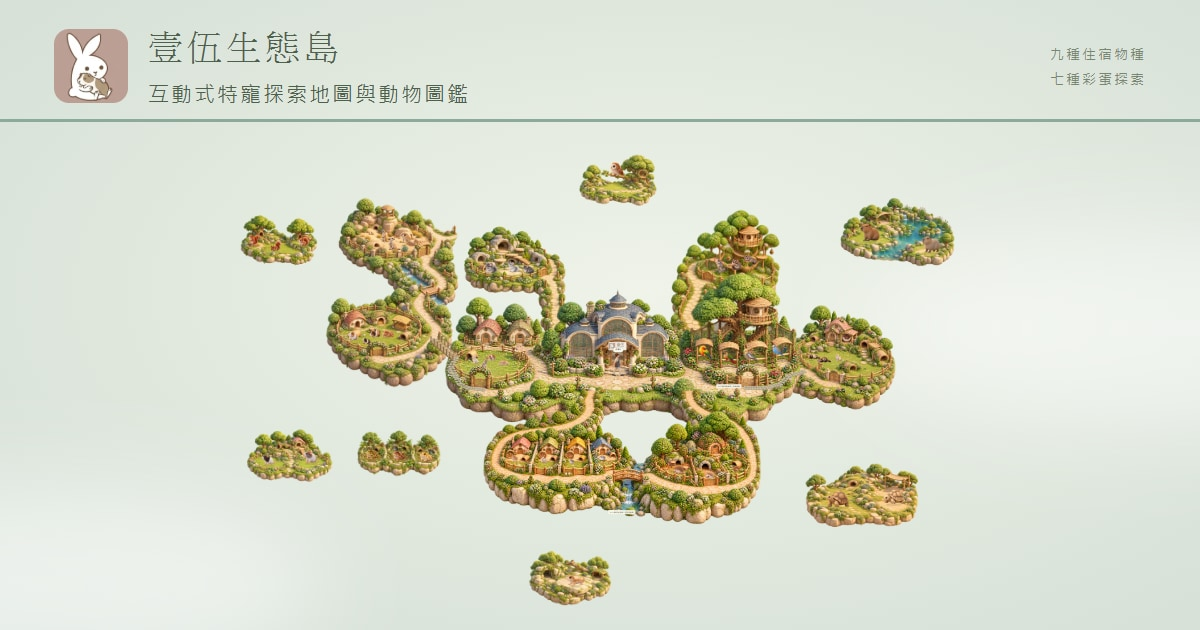
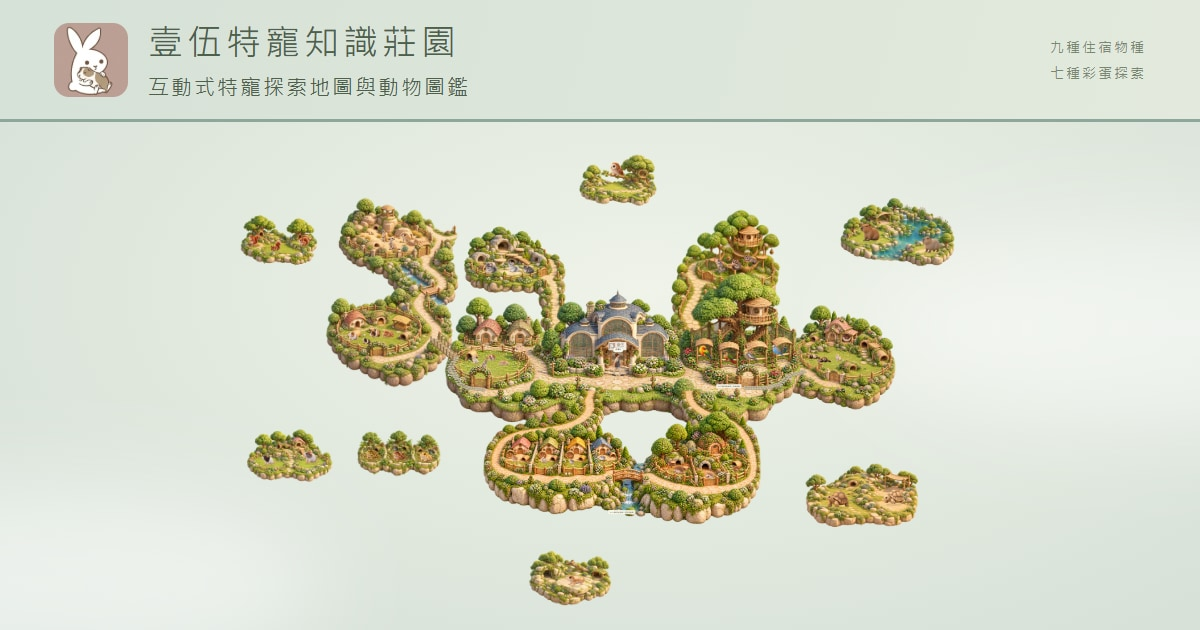
Rename public brand to Yiwu Pet Knowledge Manor

Changed region(s): [[0.0308, 0.0302, 0.4008, 0.181], [0.8633, 0.0603, 0.9558, 0.1508]]

diff --git a/src/app/motion-review/page.tsx b/src/app/motion-review/page.tsx
@@ -11,5 +11,5 @@ export default function Review() {
         return; let id = 0, last = 0; function tick(t: number) { if (last)
         setDistance(v => v + Math.min(t - last, 60) * .052); last = t; id = requestAnimationFrame(tick); } id = requestAnimationFrame(tick); return () => cancelAnimationFrame(id); }, [playing, observing]);
     const frame = gaitFrame(distance), clip = caretakerClips[direction];
-    return <div className="motion-review"><Link href="/">← 回生態島</Link><h1>保母動作審閱</h1><p>正面、側面、背面各 8 格；左側使用鏡像，胸前商標另層保留原圖方向。</p><p className="review-warning">逐格播放已實作。素材仍為暫時版本：部分影格的支撐腳、對側擺臂及循環銜接不夠一致，尚未達到自然步態的正式驗收標準。</p><div className="review-controls">{(['front', 'right', 'back', 'left'] as Facing[]).map((d, i) => <button key={d} aria-pressed={direction === d} onClick={() => { setDirection(d); setObserving(false); }}>{['正面', '右側', '背面', '左側'][i]}</button>)}<button onClick={() => setPlaying(!playing)}>{playing ? '暫停換格' : '播放換格'}</button><button onClick={() => { setObserving(!observing); }}>{observing ? '返回行走' : '到站拿平板'}</button></div><div className="review-stage"><div className="contact-baseline"/><Caretaker position={{ x: 180, y: 310 }} direction={direction} distance={distance} walking={!observing} observing={observing}/></div><label>目前影格 {frame + 1} / 8 <input aria-label="逐格檢查" type="range" min="0" max="7" step="1" value={frame} onChange={e => { setPlaying(false); setObserving(false); setDistance(Number(e.target.value) * STRIDE / 8); }}/></label><div className="frame-grid">{Array.from({ length: 8 }, (_, n) => <figure key={n}><img src={assetUrl(`/assets/animation-v2/${clip.file.replace('walk-', '')}-${n}.webp`)} alt={`${direction} 第 ${n + 1} 格`}/><figcaption>{n + 1} / 8 · 腳底錨點 y=252</figcaption></figure>)}</div></div>;
+    return <div className="motion-review"><Link href="/">← 回莊園</Link><h1>保母動作審閱</h1><p>正面、側面、背面各 8 格；左側使用鏡像，胸前商標另層保留原圖方向。</p><p className="review-warning">逐格播放已實作。素材仍為暫時版本：部分影格的支撐腳、對側擺臂及循環銜接不夠一致，尚未達到自然步態的正式驗收標準。</p><div className="review-controls">{(['front', 'right', 'back', 'left'] as Facing[]).map((d, i) => <button key={d} aria-pressed={direction === d} onClick={() => { setDirection(d); setObserving(false); }}>{['正面', '右側', '背面', '左側'][i]}</button>)}<button onClick={() => setPlaying(!playing)}>{playing ? '暫停換格' : '播放換格'}</button><button onClick={() => { setObserving(!observing); }}>{observing ? '返回行走' : '到站拿平板'}</button></div><div className="review-stage"><div className="contact-baseline"/><Caretaker position={{ x: 180, y: 310 }} direction={direction} distance={distance} walking={!observing} observing={observing}/></div><label>目前影格 {frame + 1} / 8 <input aria-label="逐格檢查" type="range" min="0" max="7" step="1" value={frame} onChange={e => { setPlaying(false); setObserving(false); setDistance(Number(e.target.value) * STRIDE / 8); }}/></label><div className="frame-grid">{Array.from({ length: 8 }, (_, n) => <figure key={n}><img src={assetUrl(`/assets/animation-v2/${clip.file.replace('walk-', '')}-${n}.webp`)} alt={`${direction} 第 ${n + 1} 格`}/><figcaption>{n + 1} / 8 · 腳底錨點 y=252</figcaption></figure>)}</div></div>;
 }

diff --git a/src/components/Experience.tsx b/src/components/Experience.tsx
@@ -199,9 +199,9 @@ function ExperienceScene({artPreview,artExpansion,artFinal,eggPreview}:{artPrevi
         if (selectedExploration)
             closeExploration();
     } }} className={lifePaused ? 'life-paused' : ''} data-exploring={selectedExploration ? 'true' : 'false'} data-view={selected ? 'focus' : 'overview'} data-island={selected ?? 'overview'}>
-  <header className="topbar"><a className="brand" href="https://15exoticanimalhotel.com.tw/" target="_blank" rel="noreferrer"><img src={assetUrl("/assets/logo-original.jpg")} alt="壹伍原始商標"/><span>壹伍<span className="brand-sub">非犬貓旅宿</span></span></a><span className="mobile-site-title">生態島</span><span className="top-caption">每一種特別，都值得被溫柔對待</span><a className="price-link" href="https://15exoticanimalhotel.com.tw/price.html" target="_blank" rel="noreferrer">了解房型／價格 <span>↗</span></a></header>
-  <div className="intro"><div className="eyebrow"><span /> YIWU ECO ISLAND · CHAPTER 07</div><h1>壹伍生態島</h1><p>把世界放小，把照顧放大。<br />跟著保母，走進每一種特別的日常。</p><span className="review-tag">動態原型 · 步態與新製美術待審</span></div>
-  <div className="map" ref={viewport} tabIndex={0} role="region" aria-label="可拖曳縮放的生態島地圖；方向鍵移動，加減鍵縮放，Home 返回全景" onClickCapture={e=>{if(gesture.current.moved&&e.detail!==0){e.preventDefault();e.stopPropagation();}}} onKeyDown={e => { const c = cameraRef.current; if (['ArrowLeft', 'ArrowRight', 'ArrowUp', 'ArrowDown'].includes(e.key)) {
+  <header className="topbar"><a className="brand" href="https://15exoticanimalhotel.com.tw/" target="_blank" rel="noreferrer"><img src={assetUrl("/assets/logo-original.jpg")} alt="壹伍原始商標"/><span>壹伍<span className="brand-sub">非犬貓旅宿</span></span></a><span className="mobile-site-title">壹伍特寵小知識莊園</span><span className="top-caption">每一種特別，都值得被溫柔對待</span><a className="price-link" href="https://15exoticanimalhotel.com.tw/price.html" target="_blank" rel="noreferrer">了解房型／價格 <span>↗</span></a></header>
+  <div className="intro"><div className="eyebrow"><span /> YIWU PET KNOWLEDGE MANOR</div><h1>壹伍特寵小知識莊園</h1><p>把世界放小，把照顧放大。<br />跟著保母，走進每一種特別的日常。</p><span className="review-tag">動態原型 · 步態與新製美術待審</span></div>
+  <div className="map" ref={viewport} tabIndex={0} role="region" aria-label="可拖曳縮放的壹伍特寵小知識莊園地圖；方向鍵移動，加減鍵縮放，Home 返回全景" onClickCapture={e=>{if(gesture.current.moved&&e.detail!==0){e.preventDefault();e.stopPropagation();}}} onKeyDown={e => { const c = cameraRef.current; if (['ArrowLeft', 'ArrowRight', 'ArrowUp', 'ArrowDown'].includes(e.key)) {
         e.preventDefault();
         setSmooth(false);
         update({ ...c, x: c.x + (e.key === 'ArrowLeft' ? 50 : e.key === 'ArrowRight' ? -50 : 0), y: c.y + (e.key === 'ArrowUp' ? 50 : e.key === 'ArrowDown' ? -50 : 0) });

diff --git a/src/components/FieldGuide.tsx b/src/components/FieldGuide.tsx
@@ -29,7 +29,7 @@ function Portrait({entry,locked=false}:{entry:GuideEntry;locked?:boolean}){
 }
 function Keepsake({total}:{total:number}){return <div className="guide-keepsake" data-guide-complete="true">
  <span className="guide-seal" aria-hidden="true"><svg viewBox="0 0 48 48"><path d="M24 38C7 28 8 12 24 8c16 4 17 20 0 30Z"/><path d="M24 34V16m0 10-7-6m7 10 7-9"/></svg></span>
- <div><span className="eyebrow">{total} 種相遇・一份溫柔收藏</span><h3>壹伍生態探索家</h3><p>恭喜你！已經認識壹伍生態島的每一位小夥伴 ♡</p><small>網站內的探索紀念，非住宿優惠、折價券或實體獎勵。</small></div>
+ <div><span className="eyebrow">{total} 種相遇・一份溫柔收藏</span><h3>壹伍莊園探索家</h3><p>恭喜你！已經認識壹伍特寵小知識莊園的每一位小夥伴 ♡</p><small>網站內的探索紀念，非住宿優惠、折價券或實體獎勵。</small></div>
  </div>}
 
 export default memo(forwardRef<FieldGuideHandle,Props>(function FieldGuide({onNavigate,open:controlledOpen,onOpenChange,showReward=true},ref){
@@ -61,10 +61,10 @@ export default memo(forwardRef<FieldGuideHandle,Props>(function FieldGuide({onNa
   </button>
   {mounted&&createPortal(<>
    <div className="guide-toast" role="status" aria-live="polite" aria-atomic="true">{newFriend&&<span key={toast?.serial}>發現新朋友！{newFriend.name}圖鑑已解鎖{complete?`・${total} 種相遇，探索紀念卡已收藏`:''}</span>}</div>
-   {reward&&!open&&showReward&&<section className="guide-reward-floating" aria-label="壹伍生態探索家紀念卡"><button aria-label="收好探索紀念卡" onClick={()=>setReward(false)}>×</button><Keepsake total={total}/></section>}
+   {reward&&!open&&showReward&&<section className="guide-reward-floating" aria-label="壹伍莊園探索家紀念卡"><button aria-label="收好探索紀念卡" onClick={()=>setReward(false)}>×</button><Keepsake total={total}/></section>}
    {open&&<section id="field-guide" className="field-guide" role="dialog" aria-modal="false" aria-labelledby="guide-title" data-guide-count={count}>
     <header className="guide-header"><div><span className="eyebrow">YIWU · FIELD NOTES</span><h2 id="guide-title">動物探索圖鑑</h2></div><button ref={closeButton} className="guide-close" aria-label="收合探索圖鑑，返回地圖" onClick={()=>close()}>×</button>
-     <p className="guide-progress-copy">已發現 <strong>{count}／{total}</strong> 種生態島小夥伴</p><progress aria-label="探索完成進度" value={count} max={total}/>
+     <p className="guide-progress-copy">已發現 <strong>{count}／{total}</strong> 種莊園小夥伴</p><progress aria-label="探索完成進度" value={count} max={total}/>
     </header>
     <div className="guide-body" ref={body}>
      {entry&&view.ids.includes(entry.id)?<article className="guide-detail" data-guide-detail={entry.id}>

diff --git a/src/lib/seo.ts b/src/lib/seo.ts
@@ -1,16 +1,16 @@
 import type {Metadata} from 'next';
 
 export const siteUrl='https://island.15exoticanimalhotel.com.tw/';
-export const siteTitle='壹伍生態島｜互動式特寵探索地圖與動物圖鑑';
-export const siteDescription='走進壹伍非犬貓旅宿打造的可愛立體生態世界！探索兔子、天竺鼠、鸚鵡、倉鼠等特寵生活區，發現水豚、角蛙、蘇卡達龜等驚喜彩蛋，跟著保母巡視並收集 16 種動物圖鑑。';
-const image={url:new URL('assets/seo/eco-island-share.jpg',siteUrl).href,width:1200,height:630,alt:'壹伍生態島的立體微縮動物探索地圖與壹伍原始品牌 Logo'};
+export const siteTitle='壹伍特寵小知識莊園｜互動式特寵探索地圖與動物圖鑑';
+export const siteDescription='走進壹伍非犬貓旅宿打造的線上特寵知識莊園！探索九大特寵生活區、尋找七種隱藏彩蛋，跟著保母巡視，收集16種動物圖鑑，認識不同動物的生活習性與有趣知識。';
+const image={url:new URL('assets/seo/eco-island-share.jpg',siteUrl).href,width:1200,height:630,alt:'壹伍特寵小知識莊園的立體微縮動物探索地圖與壹伍原始品牌 Logo'};
 export const siteMetadata:Metadata={
- metadataBase:new URL(siteUrl),title:siteTitle,description:siteDescription,applicationName:'壹伍生態島',
- openGraph:{type:'website',locale:'zh_TW',siteName:'壹伍生態島',title:siteTitle,description:siteDescription,url:siteUrl,images:[image]},
+ metadataBase:new URL(siteUrl),title:siteTitle,description:siteDescription,applicationName:'壹伍特寵小知識莊園',
+ openGraph:{type:'website',locale:'zh_TW',siteName:'壹伍特寵小知識莊園',title:siteTitle,description:siteDescription,url:siteUrl,images:[image]},
  twitter:{card:'summary_large_image',title:siteTitle,description:siteDescription,images:[{url:image.url,alt:image.alt}]}
 };
 export const homeMetadata:Metadata={alternates:{canonical:siteUrl},robots:{index:true,follow:true}};
 export function reviewMetadata(label:string,path:string):Metadata{
- const title=`${label}（審閱頁）｜壹伍生態島`,url=new URL(path,siteUrl).href;
+ const title=`${label}（審閱頁）｜壹伍特寵小知識莊園`,url=new URL(path,siteUrl).href;
  return{title,robots:{index:false,follow:true},alternates:{canonical:url},openGraph:{...siteMetadata.openGraph,title,url}};
 }

diff --git a/src/app/rabbit-review/page.tsx b/src/app/rabbit-review/page.tsx
@@ -12,7 +12,7 @@ export default function RabbitReview() {
         time += last === null ? 0 : Math.min(100, now - last);
         setFrame(16 + Math.floor(time / 1050 * 8) % 8);
     } last = now; handle = requestAnimationFrame(loop); }; handle = requestAnimationFrame(loop); return () => cancelAnimationFrame(handle); }, [playing]);
-    return <main className="rabbit-review"><Link href="/">← 返回生態島</Link><h1>兔兔影格檢視</h1><p>四隻兔子各有 24 格角色圖。16–23 是八階段短跳；0–15 是待機、觀察與個別動作。這裡不移動角色座標，方便檢查身體與四肢確實在變化。虛線為腳底基準；懸空影格保留少量離地高度。</p>
+    return <main className="rabbit-review"><Link href="/">← 返回莊園</Link><h1>兔兔影格檢視</h1><p>四隻兔子各有 24 格角色圖。16–23 是八階段短跳；0–15 是待機、觀察與個別動作。這裡不移動角色座標，方便檢查身體與四肢確實在變化。虛線為腳底基準；懸空影格保留少量離地高度。</p>
  <div className="rabbit-review-controls"><button onClick={() => setPlaying(!playing)}>{playing ? '暫停影格播放' : '播放八影格短跳'}</button><label>目前影格 {frame}<input aria-label="兔子影格" type="range" min="0" max="23" value={frame} onChange={e => { setPlaying(false); setFrame(+e.target.value); }}/></label></div>
  <div className="rabbit-review-grid">{rabbitProfiles.map((p, i) => <figure key={p.id}><div className="rabbit-review-stage"><div className="rabbit-foot-line"/><RabbitSprite rabbit={{ ...initial[i], state: frame >= 16 ? 'move' : 'rest', frame, blend: 0 } as RabbitView}/></div><figcaption>{p.name} · 影格 {frame}</figcaption></figure>)}</div>
  <p>新製序列仍為待品牌與動畫美術終審的候選素材；沒有額外的背面方向、完整轉身或更高影格率跑步。</p>

diff --git a/src/components/PatrolControls.tsx b/src/components/PatrolControls.tsx
@@ -6,7 +6,7 @@ export default memo(function PatrolControls({state,onToggle,caption}:{state:Patr
  const view=state?describePatrol(state,names):{status:'自動巡視中',location:names.main,next:'兔兔區',detail:'準備從中央旅宿出發'};
  return <section className="patrol-controls" aria-label="保母巡島控制">
   <div className="patrol-summary" role="status" aria-live="polite" aria-atomic="true">
-   <div className="patrol-mode"><span className={state?.paused?'paused-dot':'patrol-dot'}/><strong>{view.status}</strong><small>{state?.phase==='wait'&&!state.paused&&state.location!=='main'&&caption?caption:view.detail}</small><span className="patrol-simulation">生態島模擬照護・非即時紀錄</span></div>
+   <div className="patrol-mode"><span className={state?.paused?'paused-dot':'patrol-dot'}/><strong>{view.status}</strong><small>{state?.phase==='wait'&&!state.paused&&state.location!=='main'&&caption?caption:view.detail}</small><span className="patrol-simulation">莊園模擬照護・非即時紀錄</span></div>
    <dl><div><dt>目前位置</dt><dd>{view.location}</dd></div><div><dt>下一站</dt><dd>{view.next}</dd></div></dl>
   </div>
   <button className="patrol-toggle" aria-pressed={state?.paused??false} onClick={onToggle}>{state?.paused?'繼續巡視':'暫停巡視'}</button>

diff --git a/README.md b/README.md
@@ -1,4 +1,4 @@
-# 壹伍生態島
+# 壹伍特寵小知識莊園
 
 第七階段完整網站的獨立 GitHub Pages 發布專案。
 
